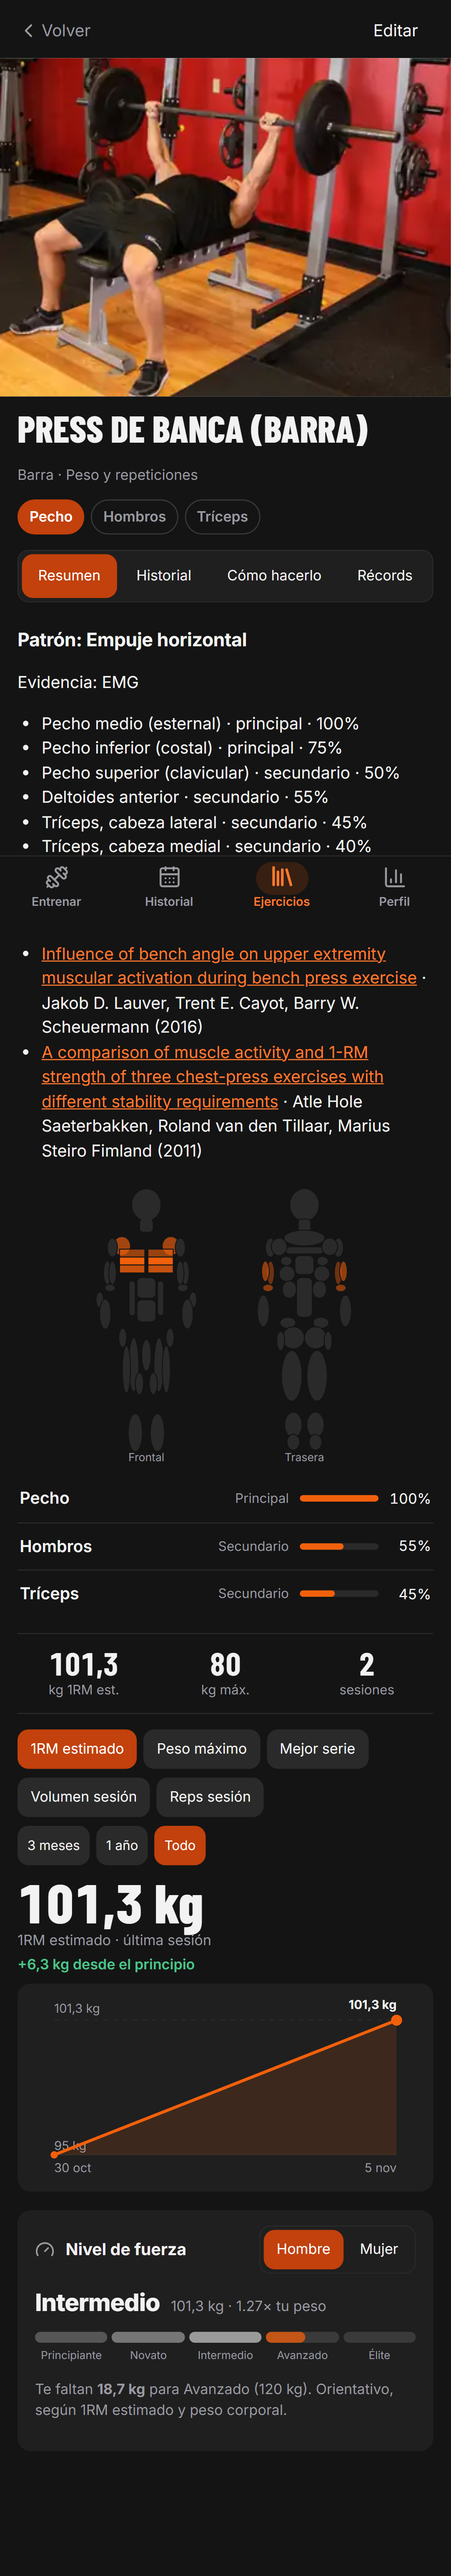
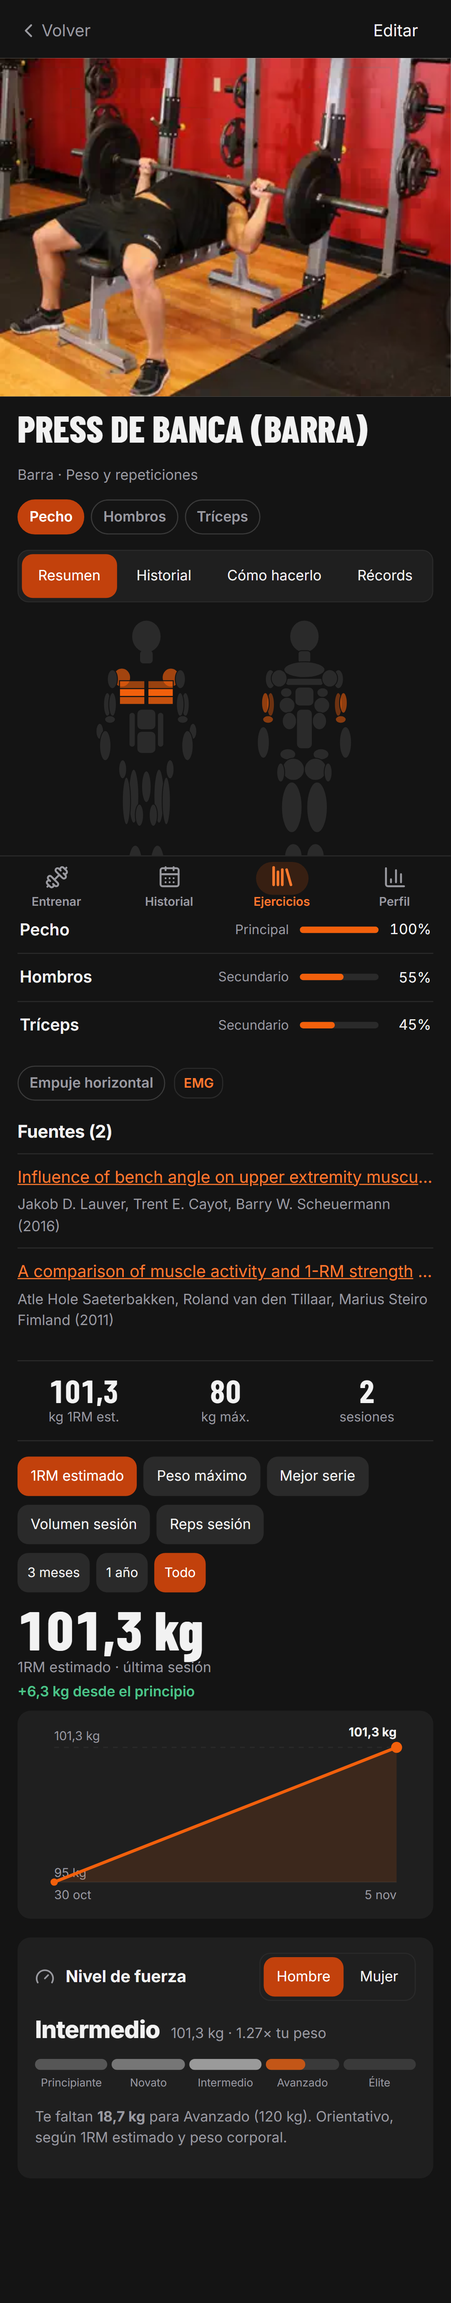
Compacta la evidencia y presenta las fuentes en filas

diff --git a/app/src/components/ExercisesTab.tsx b/app/src/components/ExercisesTab.tsx
@@ -7,8 +7,8 @@ import { loadExdbList, useExdbConfig } from '../exdb';
 import { chat } from '../../../shared/ai';
 import { EXERCISE_KIND_LABELS, MUSCLE_LABELS, catalogLabel } from '../../../shared/exercises';
 import { MuscleFilter, MuscleMap } from './BodyMap';
-import { exerciseActivation, isRegion, REGIONS } from '../../../shared/muscle-detail';
-import { availableExerciseScience } from '../../../shared/exercise-filter';
+import { exerciseActivation } from '../../../shared/muscle-detail';
+import { availableExerciseScience, formatScientificAuthors } from '../../../shared/exercise-filter';
 import { estimate1RM, exerciseHistory, formatDuration, formatSet, personalRecords, repRecords, type ExerciseSession } from '../../../shared/stats';
 import type { Exercise, ExerciseKind, WorkoutSet } from '../../../shared/types';
 import { cap, fmtDate, useStore } from '../store';
@@ -305,31 +305,34 @@ function ExerciseDetail({ id, onBack }: { id: string; onBack: () => void }) {
 
       {tab === 'summary' && (
         <>
+          <MuscleMap exercise={e} />
           {science && (
-            <section aria-label="Evidencia del ejercicio">
-              <h2>Patrón: {cap(science.patron.replaceAll('-', ' '))}</h2>
-              <p>{science.evidencia === 'estimada' ? 'Evidencia estimada: intensidades orientativas, sin fuentes medidas.' : `Evidencia: ${science.evidencia === 'emg' ? 'EMG' : 'hipertrofia'}`}</p>
-              <ul aria-label="Músculos por rol">
-                {science.musculos.map((m) => (
-                  <li key={m.id}>
-                    {isRegion(m.id) ? REGIONS[m.id][1] : MUSCLE_LABELS[m.id]} · {m.rol} · {m.intensidad}%
-                  </li>
-                ))}
-              </ul>
+            <section className="exercise-evidence" aria-label="Evidencia del ejercicio">
+              <div className="evidence-heading">
+                <ul className="exinfo-chips" aria-label="Patrón de movimiento">
+                  <li>{cap(science.patron.replaceAll('-', ' '))}</li>
+                </ul>
+                <span className={`evidence-badge ${science.evidencia === 'estimada' ? 'muted' : ''}`}>
+                  {science.evidencia === 'emg' ? 'EMG' : science.evidencia === 'hipertrofia' ? 'Hipertrofia' : 'Estimada'}
+                </span>
+              </div>
+              {science.evidencia === 'estimada' && <p className="muted small">Estimada: intensidades orientativas, sin medición directa</p>}
               {science.fuentes.length > 0 && (
                 <>
-                  <h3>Fuentes</h3>
-                  <ul>
+                  <h2 className="evidence-sources-heading">Fuentes ({science.fuentes.length})</h2>
+                  <ul className="evidence-sources">
                     {science.fuentes.map((source, i) => (
                       <li key={i}>
                         {source.url || source.doi ? (
-                          <a href={source.url ?? `https://doi.org/${source.doi}`} target="_blank" rel="noopener noreferrer">
+                          <a className="evidence-source-title" href={source.url ?? `https://doi.org/${source.doi}`} target="_blank" rel="noopener noreferrer">
                             {source.titulo}
                           </a>
                         ) : (
-                          <span>{source.titulo}</span>
-                        )}{' '}
-                        · {source.autores.join(', ')} ({source.año})
+                          <span className="evidence-source-title">{source.titulo}</span>
+                        )}
+                        <p className="muted small">
+                          {formatScientificAuthors(source.autores)} ({source.año})
+                        </p>
                       </li>
                     ))}
                   </ul>
@@ -337,7 +340,6 @@ function ExerciseDetail({ id, onBack }: { id: string; onBack: () => void }) {
               )}
             </section>
           )}
-          <MuscleMap exercise={e} />
           {exdbCfg.key && (
             <button className="ghost small icon-btn" onClick={() => setPickGif(true)}>
               <Film size={15} /> {e.exdbId ? 'Cambiar GIF' : 'Elegir GIF'}

diff --git a/e2e/evidence.spec.ts b/e2e/evidence.spec.ts
@@ -18,7 +18,8 @@ for (const colorScheme of ['light', 'dark'] as const) {
     const evidence = page.getByRole('region', { name: 'Evidencia del ejercicio' });
     await expect(evidence).toContainText('EMG');
     await expect(evidence.getByRole('link').first()).toHaveAttribute('href', /^https?:/);
-    await expect(evidence.getByRole('list', { name: 'Músculos por rol' })).toContainText('principal');
+    await expect(page.locator('.act-list')).toContainText('Principal');
+    await expect(page.getByRole('img', { name: 'M\u00fasculos que trabaja' })).toBeVisible();
     expect((await new AxeBuilder({ page }).analyze()).violations).toEqual([]);
     await page.screenshot({ path: `artifacts/evidence-sourced-${colorScheme}.png`, fullPage: true });
     await page.getByRole('button', { name: 'Volver', exact: true }).click();
@@ -26,7 +27,7 @@ for (const colorScheme of ['light', 'dark'] as const) {
     await expect(page.getByRole('combobox', { name: 'Filtrar por patrón' })).toHaveValue('');
     await page.getByRole('textbox', { name: 'Buscar ejercicio' }).fill('copenhague');
     await page.locator('.exrow').first().click();
-    await expect(evidence).toContainText('Evidencia estimada');
+    await expect(evidence).toContainText('Estimada: intensidades orientativas, sin medici\u00f3n directa');
     await expect(evidence.getByRole('link')).toHaveCount(0);
     expect((await new AxeBuilder({ page }).analyze()).violations).toEqual([]);
     await page.screenshot({ path: `artifacts/evidence-estimated-${colorScheme}.png`, fullPage: true });

diff --git a/shared/exercise-filter.test.ts b/shared/exercise-filter.test.ts
@@ -1,5 +1,5 @@
 import { describe, expect, it } from 'vitest';
-import { availableExerciseScience, filterExercises } from './exercise-filter';
+import { availableExerciseScience, filterExercises, formatScientificAuthors } from './exercise-filter';
 import { DEFAULT_EXERCISES } from './exercises';
 import type { Exercise } from './types';
 
@@ -38,4 +38,10 @@ describe('filtro de ejercicios', () => {
 it('conserva las fuentes sin enlace como texto sin impedir consultar los metadatos', () => {
   const science = { ...availableExerciseScience(sourced)!, fuentes: [{ titulo: 'Referencia sin enlace', autores: ['Autor'], año: 2024 }] };
   expect(availableExerciseScience({ ...sourced, science })).toEqual(science);
+});
+
+it('abrevia autores solo cuando hay mas de tres', () => {
+  expect(formatScientificAuthors(['A', 'B', 'C'])).toBe('A, B, C');
+  expect(formatScientificAuthors(['A', 'B', 'C', 'D'])).toBe('A et al.');
+  expect(formatScientificAuthors(['A'])).toBe('A');
 });

diff --git a/app/src/components/ExercisesTab.css b/app/src/components/ExercisesTab.css
@@ -115,3 +115,51 @@
   color: var(--accent-ink);
   font-weight: 600;
 }
+
+.exercise-evidence {
+  margin: 16px 0;
+}
+.evidence-heading {
+  display: flex;
+  align-items: center;
+  gap: 8px;
+}
+.evidence-heading .exinfo-chips {
+  margin: 0;
+}
+.evidence-badge {
+  border: 1px solid var(--line);
+  border-radius: var(--radius);
+  padding: 4px 8px;
+  font-size: 12px;
+  font-weight: 600;
+  color: var(--accent-ink);
+  white-space: nowrap;
+}
+.evidence-badge.muted {
+  color: var(--muted);
+}
+.evidence-sources {
+  list-style: none;
+  padding: 0;
+  margin: 0;
+}
+.evidence-sources li {
+  border-top: 1px solid var(--line);
+  padding: 10px 0;
+  min-width: 0;
+}
+.evidence-source-title {
+  display: block;
+  overflow: hidden;
+  text-overflow: ellipsis;
+  white-space: nowrap;
+}
+.evidence-sources p {
+  margin: 4px 0 0;
+}
+
+.evidence-sources-heading {
+  font-size: 16px;
+  margin: 16px 0 8px;
+}

diff --git a/shared/exercise-filter.ts b/shared/exercise-filter.ts
@@ -17,3 +17,7 @@ export function filterExercises(exercises: Exercise[], filters: { q?: string; mu
       matchesExercise(exercise, filters.q ?? ''),
   );
 }
+
+export function formatScientificAuthors(authors: string[]): string {
+  return authors.length > 3 ? `${authors[0]} et al.` : authors.join(', ');
+}

diff --git a/docs/issue-52/README.md b/docs/issue-52/README.md
@@ -1,7 +1,7 @@
 # Verificación de la issue #52
 
-- `npm run check`: correcto, 32 ficheros y 243 tests; cobertura de líneas 95,34 %.
-- `npm --prefix app run build` y `npm run e2e`: correctos, 71 pruebas e2e.
+- `npm run check`: correcto, 32 ficheros y 244 tests; cobertura de líneas 95,34 %.
+- `npm --prefix app run build` y `npx playwright test --workers 4`: correctos, 71 pruebas e2e.
 - Axe sin infracciones en las fichas con fuentes y estimada, en claro y oscuro.
 - La prueba abre la ficha con foco en la fila y Enter; los controles nativos de filtro tienen nombre accesible.
 - Las pruebas nuevas usan `reducedMotion: reduce` en ambos temas.
@@ -17,3 +17,7 @@ Las capturas anteriores se generaron compilando los tres componentes originales 
 | Después, oscuro | [Filtros](evidence-filters-dark.png) | [Con fuentes](evidence-sourced-dark.png), [estimada](evidence-estimated-dark.png) |
 
 Revisión del PR: se restaura el mapa interactivo y las chips para todos los ejercicios; la prueba original comprueba de nuevo aria-expanded y las tres partes del pecho, y los casos sin metadatos comprueban mapa y chips sin sección de evidencia. Las fuentes sin URL ni DOI se presentan como texto.
+
+Acabado visual: evidencia debajo del mapa y barras, patrón y nivel en una fila, estimaciones en tono apagado y fuentes sin viñetas con título en una línea y autores abreviados a partir de cuatro. Se elimina la lista repetida de músculos.
+
+Las ejecuciones con 16 workers presentaron fallos intermitentes en el arrastre del editor de rutina y, en una ocasión, en el arranque de una página; la comprobación completa final usa cuatro workers.
